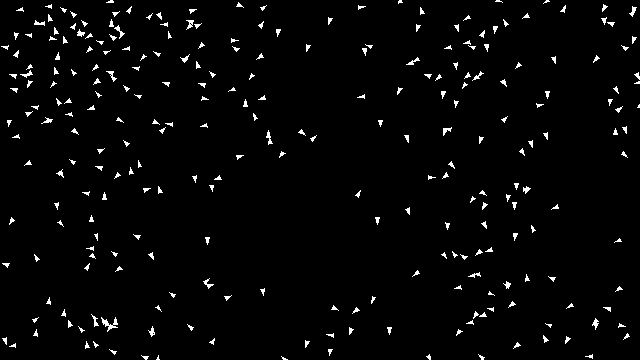
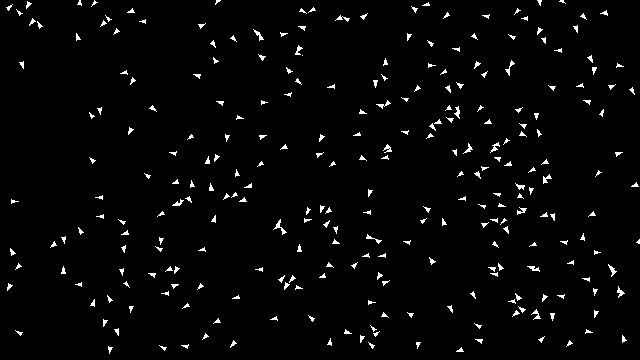
Increase default flock speed to 4x

diff --git a/src/webgpu.js b/src/webgpu.js
@@ -334,7 +334,7 @@ export async function createGpuFlock(canvas, {
     width: Math.max(1, width),
     height: Math.max(1, height),
     count: clamp(Math.round(count) || 0, 0, GPU_CAPACITY),
-    speed: clamp(Number.isFinite(speed) ? speed : 1, 0.1, 4),
+    speed: clamp(Number.isFinite(speed) ? speed : 1, 0.1, 6),
     mode: 0,
     readIndex: 0,
     random,
@@ -392,7 +392,7 @@ export async function createGpuFlock(canvas, {
       state.count = next;
     },
     setSpeed(value) {
-      state.speed = clamp(Number.isFinite(value) ? value : 1, 0.1, 4);
+      state.speed = clamp(Number.isFinite(value) ? value : 1, 0.1, 6);
     },
     setMode(mode) {
       state.mode = MODES[mode] ?? 0;

diff --git a/src/main.js b/src/main.js
@@ -12,7 +12,7 @@ const FRAME_MS = 1000 / TARGET_FPS;
 
 const defaults = Object.freeze({
   count: 256,
-  speed: 2.7,
+  speed: 4,
   interaction: "orbit",
 });
 
@@ -65,7 +65,7 @@ function applyProperty(name, value) {
       flock?.setCount(config.count);
       break;
     case "speed":
-      config.speed = clamp(parseNumber(value, config.speed), 0.25, 4);
+      config.speed = clamp(parseNumber(value, config.speed), 0.25, 6);
       gpu?.setSpeed(config.speed);
       flock?.setSpeed(config.speed);
       break;

diff --git a/src/flock.js b/src/flock.js
@@ -114,7 +114,7 @@ export class Flock {
   }
 
   setSpeed(value) {
-    this.speed = clamp(Number.isFinite(value) ? value : 1, 0.1, 4);
+    this.speed = clamp(Number.isFinite(value) ? value : 1, 0.1, 6);
     return this.speed;
   }
 

diff --git a/tools/generate-assets.py b/tools/generate-assets.py
@@ -9,8 +9,8 @@ from PIL import Image, ImageDraw
 ROOT = Path(__file__).resolve().parent.parent
 ASSETS = ROOT / "assets"
 TAU = math.tau
-MIN_SPEED = 124
-MAX_SPEED = 259
+MIN_SPEED = 184
+MAX_SPEED = 384
 
 
 class Point:

diff --git a/README.md b/README.md
@@ -32,7 +32,7 @@ The root `LivelyInfo.json` and `LivelyProperties.json` provide the thumbnail, pr
 | Property | Values | Default |
 | --- | --- | --- |
 | Flock size | 20–1024 | 256 |
-| Speed | 0.25–4× | 2.7× |
+| Speed | 0.25–6× | 4× |
 | Cursor | Orbit, Follow, Avoid, Ignore | Orbit |
 
 ## Development
